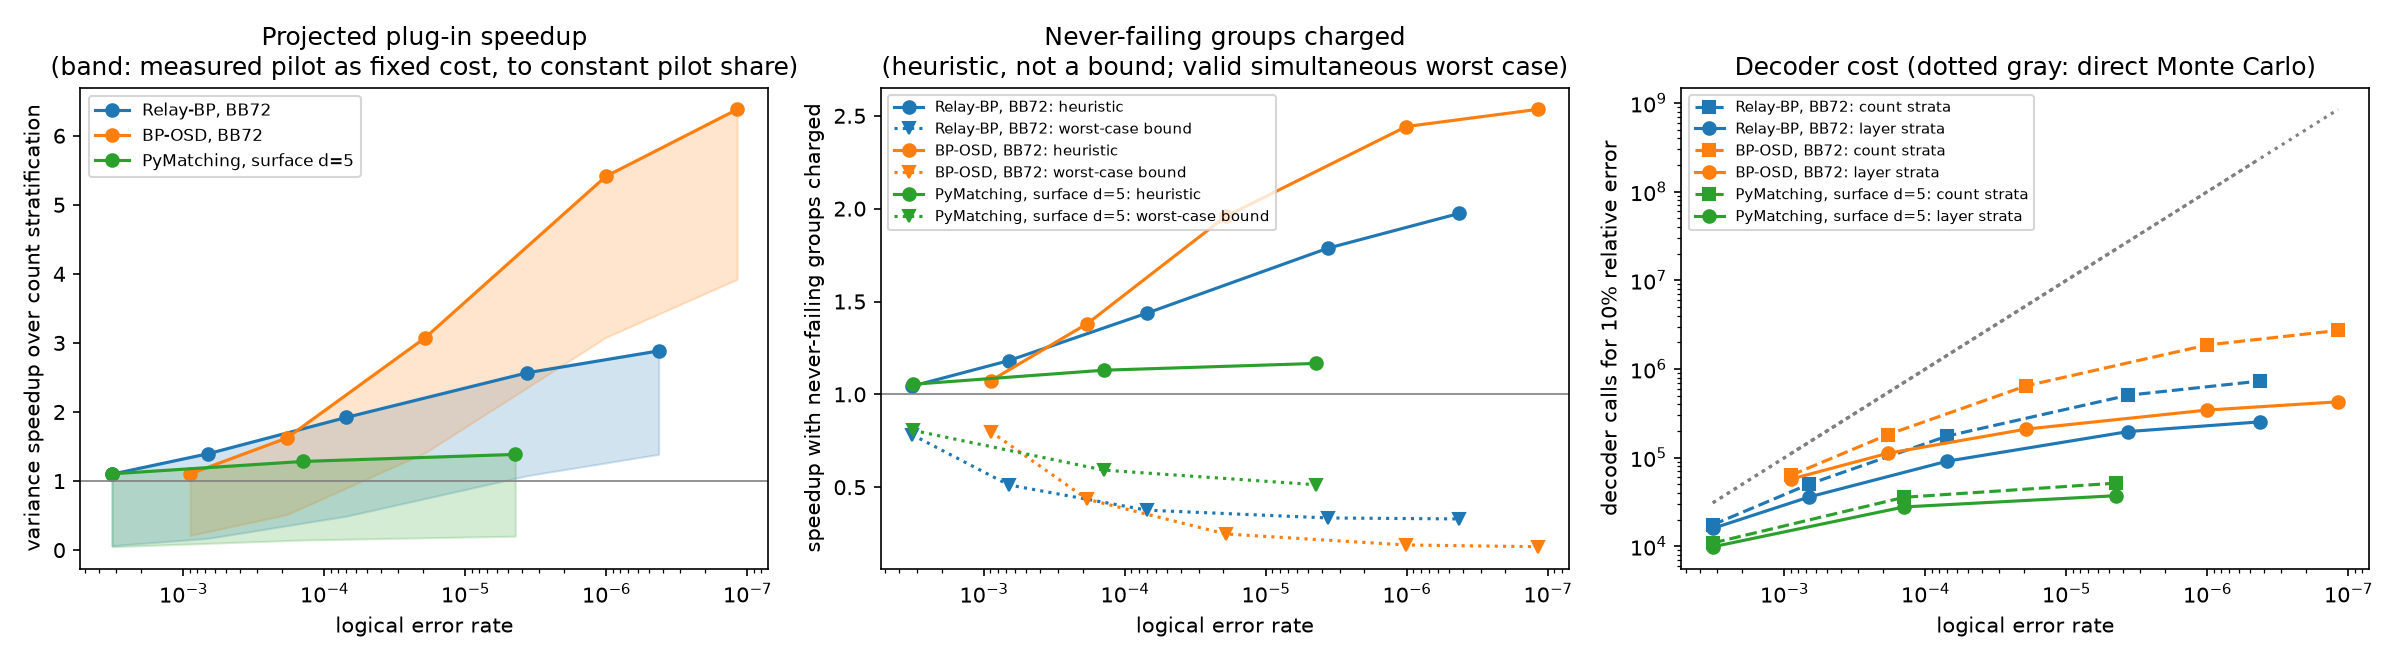
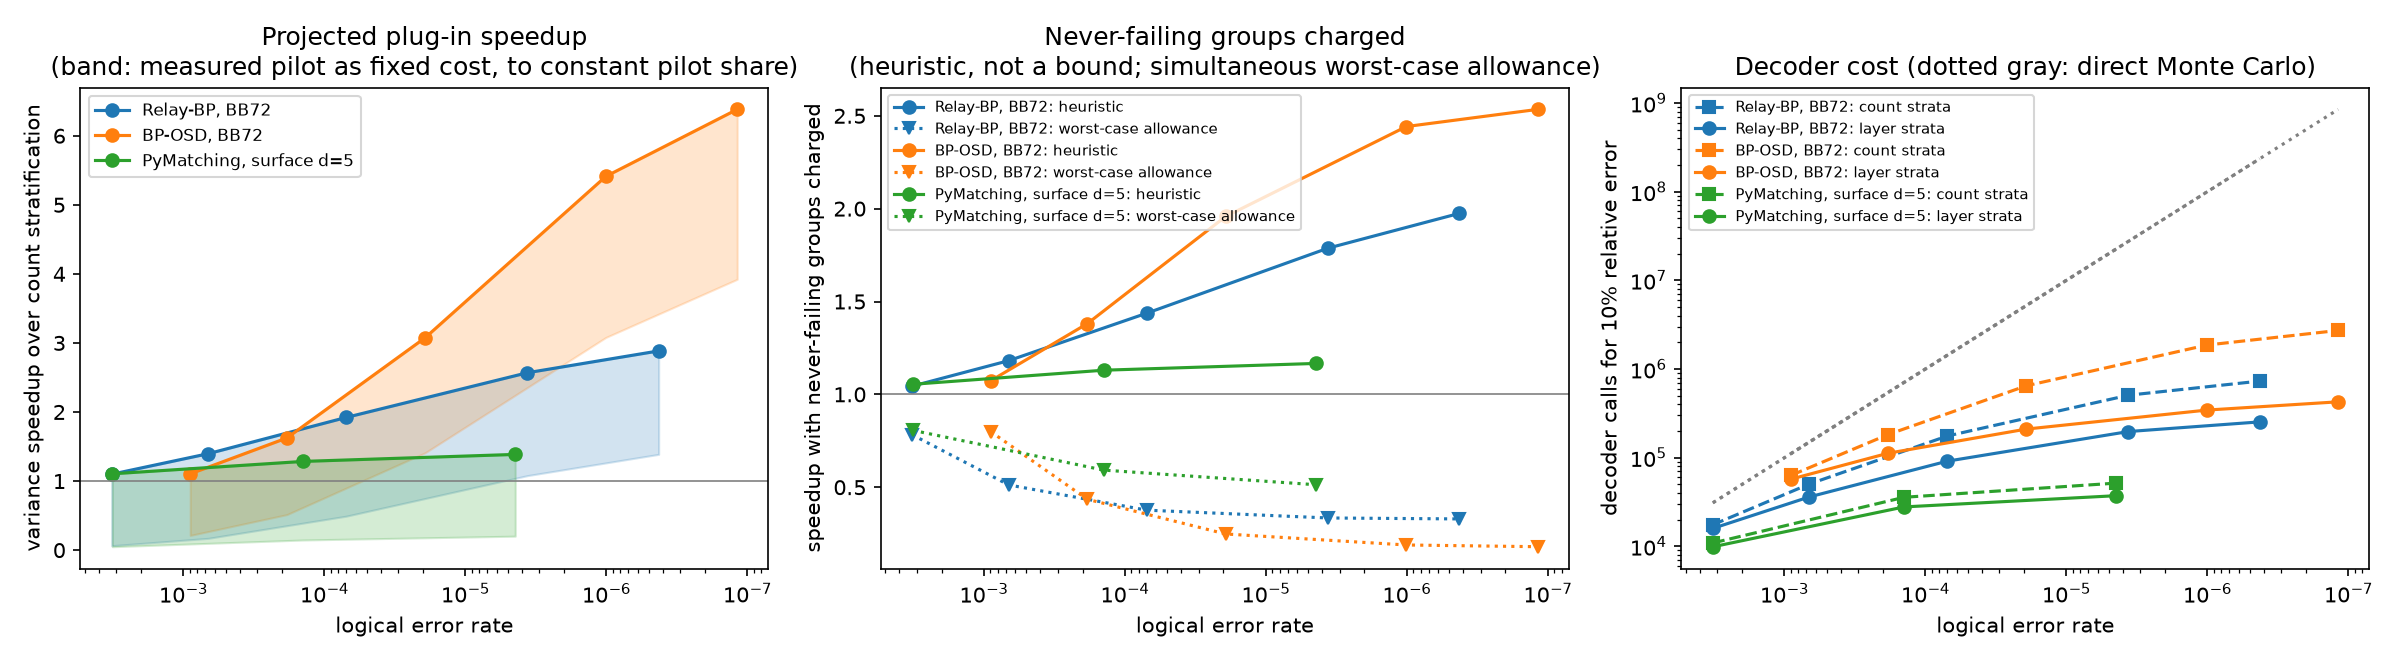
LACE: regenerate figure with allowance labels; explain table placeholders

diff --git a/benchmarks/qec/rare_event_sampling/run_ler_speedup.py b/benchmarks/qec/rare_event_sampling/run_ler_speedup.py
@@ -338,7 +338,7 @@ def plot(path: str, reports: list[dict]) -> None:
         ax2.plot(ler, [r["speedup_over_plain_worst_case"] for r in rows],
                  "v:",
                  color=line.get_color(),
-                 label=f"{label}: worst-case bound")
+                 label=f"{label}: worst-case allowance")
         ax3.plot(ler, [r["direct_cost"] for r in rows], ":", color="gray")
         ax3.plot(ler, [r["plain_stratified_cost"] for r in rows],
                  "s--",

diff --git a/benchmarks/qec/rare_event_sampling/RESULTS.md b/benchmarks/qec/rare_event_sampling/RESULTS.md
@@ -110,9 +110,14 @@ sets have weight 3, so IBM's enclosure model holds here.
 
 | p | Exact stratified | Reweighted (unbiased) | f3 ansatz | f5 ansatz | Direct (400k shots) |
 |---|---|---|---|---|---|
-| 0.003 | 3.20e-3 [2.54e-3, 4.18e-3] | - | 4.66e-3 | 3.21e-3 | 3.25e-3 [3.08e-3, 3.43e-3] |
-| 0.001 | - | 1.42e-4 +- 0.14e-4 | 2.80e-4 | 1.37e-4 | 1.13e-4 [0.82e-4, 1.51e-4] |
-| 0.0003 | - | 4.4e-6 +- 0.6e-6 | 9.5e-6 | 4.0e-6 | 1.0e-5 (4 failures) [2.7e-6, 2.6e-5] |
+| 0.003 | 3.20e-3 [2.54e-3, 4.18e-3] | n/a (reference rate) | 4.66e-3 | 3.21e-3 | 3.25e-3 [3.08e-3, 3.43e-3] |
+| 0.001 | n/a (not the reference rate) | 1.42e-4 +- 0.14e-4 | 2.80e-4 | 1.37e-4 | 1.13e-4 [0.82e-4, 1.51e-4] |
+| 0.0003 | n/a (not the reference rate) | 4.4e-6 +- 0.6e-6 | 9.5e-6 | 4.0e-6 | 1.0e-5 (4 failures) [2.7e-6, 2.6e-5] |
+
+(The samples were drawn at the reference rate 0.003, so the exact
+stratified estimate exists only there; at every other rate the same
+samples are reweighted exactly, which is the second column. "n/a" marks
+the column that does not apply at that rate, not a run that failed.)
 
 BB72, Relay-BP: 25 strata (k = 0..24), 20,000 samples each (500,000
 decodes, 48 s), then a second pass with IBM's allocation (k = 3..8,
@@ -210,18 +215,24 @@ the heuristic and worst-case versions of the speedup over IBM.
 
 | Decoder / code | p | LER, first order | LER, exact reweighting | direct MC | IBM count strata | LACE | vs direct | vs IBM: plug-in / heuristic / worst case |
 |---|---|---|---|---|---|---|---|---|
-| Relay-BP, BB72 | 2e-3 | 3.2e-3 | - | 3.1e4 | 1.7e4 | 1.6e4 | 2x | 1.10x / 1.04x / 0.78x |
-| Relay-BP, BB72 | 1e-3 | 6.7e-4 | - | 1.5e5 | 5.0e4 | 3.6e4 | 4x | 1.40x / 1.18x / 0.51x |
+| Relay-BP, BB72 | 2e-3 | 3.2e-3 | reference rate (identity) | 3.1e4 | 1.7e4 | 1.6e4 | 2x | 1.10x / 1.04x / 0.78x |
+| Relay-BP, BB72 | 1e-3 | 6.7e-4 | not stored | 1.5e5 | 5.0e4 | 3.6e4 | 4x | 1.40x / 1.18x / 0.51x |
 | Relay-BP, BB72 | 5e-4 | 7.0e-5 | 7.0e-5 | 1.4e6 | 1.8e5 | 9.1e4 | 16x | 1.92x / 1.44x / 0.38x |
 | Relay-BP, BB72 | 2e-4 | 3.6e-6 | 3.6e-6 | 2.8e7 | 5.1e5 | 2.0e5 | 140x | 2.6x / 1.79x / 0.33x |
 | Relay-BP, BB72 | 1e-4 | 4.3e-7 | 4.2e-7 | 2.3e8 | 7.3e5 | 2.5e5 | 930x | 2.9x / 1.97x / 0.33x |
-| BP-OSD, BB72 | 2e-3 | 9.0e-4 | - | 1.1e5 | 6.3e4 | 5.7e4 | 2x | 1.10x / 1.07x / 0.80x |
-| BP-OSD, BB72 | 1e-3 | 1.9e-4 | - | 5.4e5 | 1.8e5 | 1.1e5 | 5x | 1.62x / 1.38x / 0.43x |
+| BP-OSD, BB72 | 2e-3 | 9.0e-4 | reference rate (identity) | 1.1e5 | 6.3e4 | 5.7e4 | 2x | 1.10x / 1.07x / 0.80x |
+| BP-OSD, BB72 | 1e-3 | 1.9e-4 | not stored | 5.4e5 | 1.8e5 | 1.1e5 | 5x | 1.62x / 1.38x / 0.43x |
 | BP-OSD, BB72 | 5e-4 | 1.9e-5 | 1.9e-5 | 5.2e6 | 6.5e5 | 2.1e5 | 25x | 3.1x / 1.96x / 0.25x |
 | BP-OSD, BB72 | 2e-4 | 1.0e-6 | 1.0e-6 | 9.9e7 | 1.9e6 | 3.4e5 | 290x | 5.4x / 2.44x / 0.19x |
 | BP-OSD, BB72 | 1e-4 | 1.2e-7 | 1.2e-7 | 8.5e8 | 2.7e6 | 4.3e5 | 2000x | 6.4x / 2.53x / 0.18x |
 | PyMatching, surface d=5 | 1e-3 | 1.4e-4 | 1.4e-4 | 7.1e5 | 3.6e4 | 2.8e4 | 25x | 1.3x / 1.13x / 0.59x |
 | PyMatching, surface d=5 | 3e-4 | 4.4e-6 | 4.4e-6 | 2.3e7 | 5.2e4 | 3.7e4 | 610x | 1.4x / 1.17x / 0.51x |
+
+("LER, exact reweighting" is the exactly reweighted value the spectrum
+run stored for the target rates it was asked for; "not stored" means the
+spectrum run was not asked for that rate and the first-order value is the
+only one available there, and at the reference rate the reweighting is
+the identity. No entry marks a failed run.)
 
 (`results/ler_speedup_*.json`, `figures/ler_speedup.png`.) The projected
 advantage over IBM grows toward low LER because the onset stratum's share
